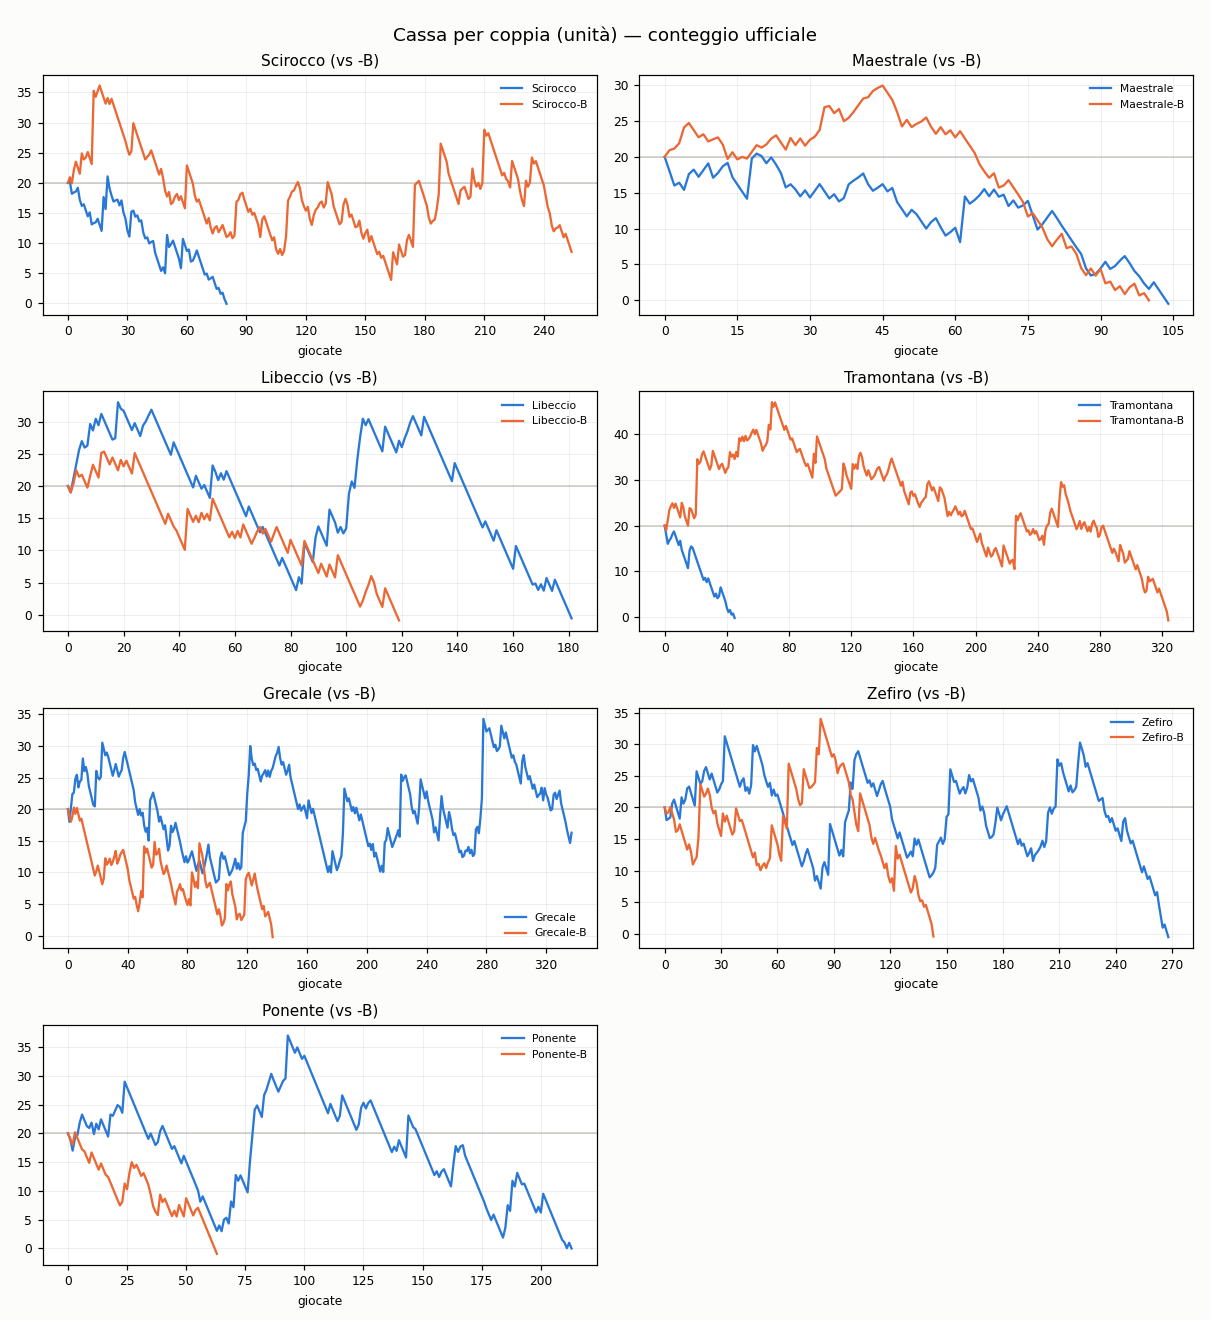
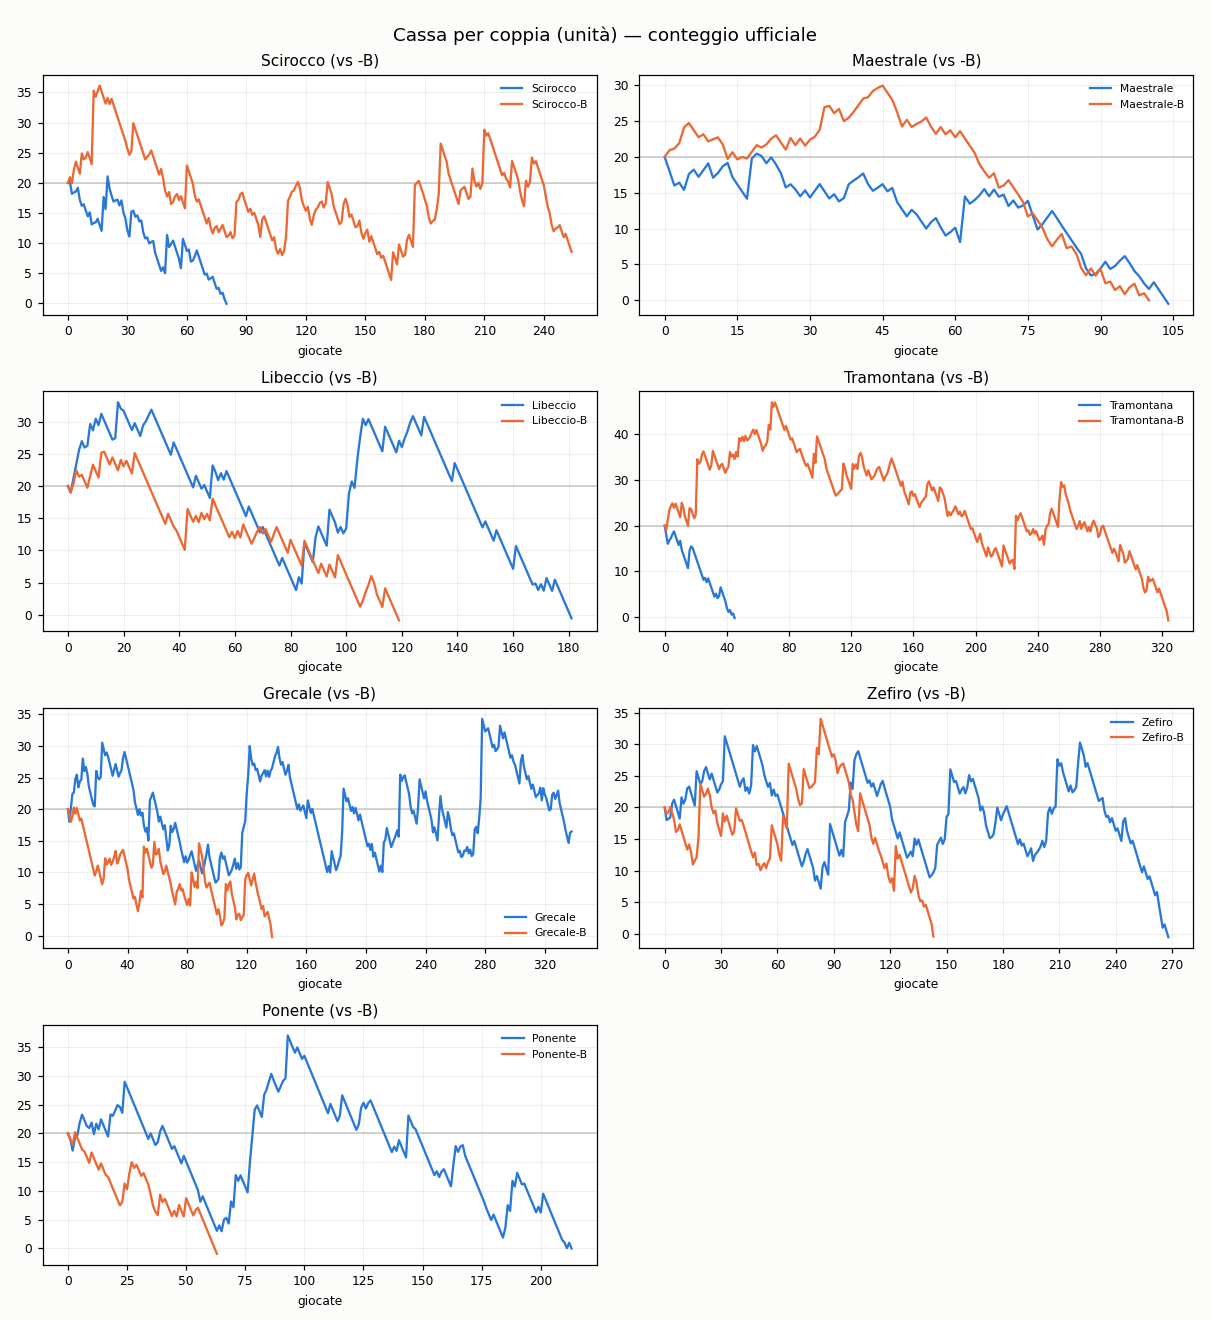
aggiornamento 2026-07-28 15:26 UTC

diff --git a/README.md b/README.md
@@ -37,9 +37,9 @@ scala in unità). Non indichiamo quale.
 
 ## Grafici
 
-![Coppie: dati completi vs ridotti](https://raw.githubusercontent.com/Kitem19/ippica-track-record/main/charts/equity_pairs.png?v=d19337b6)
+![Coppie: dati completi vs ridotti](https://raw.githubusercontent.com/Kitem19/ippica-track-record/main/charts/equity_pairs.png?v=db37e255)
 
-![Delta per coppia](https://raw.githubusercontent.com/Kitem19/ippica-track-record/main/charts/coppie_delta.png?v=7e249329)
+![Delta per coppia](https://raw.githubusercontent.com/Kitem19/ippica-track-record/main/charts/coppie_delta.png?v=d208b6b9)
 
 ### Come leggere i grafici
 
@@ -60,7 +60,7 @@ _Poche giornate: numeri ancora rumorosi, si conclude a fine fase (31/7)._
 - **Maestrale**: in sostanziale pareggio — troppo presto per dire
 - **Libeccio**: in sostanziale pareggio — troppo presto per dire
 - **Tramontana**: in sostanziale pareggio — troppo presto per dire
-- **Grecale**: dati completi avanti di 16,5u
+- **Grecale**: dati completi avanti di 16,7u
 - **Zefiro**: in sostanziale pareggio — troppo presto per dire
 - **Ponente**: in sostanziale pareggio — troppo presto per dire
 
@@ -68,22 +68,22 @@ _Poche giornate: numeri ancora rumorosi, si conclude a fine fase (31/7)._
 
 | Sistema | Cassa (u) | P/L (u) | Selezioni | Escluse | Stato |
 |---|---|---|---|---|---|
-| Grecale | 16,3 | -3,7 | 337 | 4 | 🟢 |
+| Grecale | 16,5 | -3,5 | 338 | 4 | 🟢 |
 | Scirocco-B | 8,5 | -11,5 | 254 | 6 | 🟢 |
-| Maestrale-B | 0,0 | -20,0 | 100 | 270 | 🛑 |
+| Maestrale-B | 0,0 | -20,0 | 100 | 271 | 🛑 |
 | Ponente | 0,0 | -20,0 | 213 | 50 | 🛑 |
-| Scirocco | 0,0 | -20,1 | 80 | 294 | 🛑 |
-| Grecale-B | 0,0 | -20,2 | 137 | 190 | 🛑 |
+| Scirocco | 0,0 | -20,1 | 80 | 295 | 🛑 |
+| Grecale-B | 0,0 | -20,2 | 137 | 191 | 🛑 |
 | Tramontana | 0,0 | -20,3 | 45 | 335 | 🛑 |
 | Zefiro-B | 0,0 | -20,5 | 143 | 91 | 🛑 |
 | Maestrale | 0,0 | -20,5 | 104 | 292 | 🛑 |
-| Zefiro | 0,0 | -20,6 | 268 | 24 | 🛑 |
+| Zefiro | 0,0 | -20,6 | 268 | 25 | 🛑 |
 | Libeccio | 0,0 | -20,6 | 181 | 196 | 🛑 |
 | Tramontana-B | 0,0 | -20,8 | 324 | 42 | 🛑 |
-| Libeccio-B | 0,0 | -20,9 | 119 | 209 | 🛑 |
-| Ponente-B | 0,0 | -21,0 | 63 | 110 | 🛑 |
+| Libeccio-B | 0,0 | -20,9 | 119 | 210 | 🛑 |
+| Ponente-B | 0,0 | -21,0 | 63 | 111 | 🛑 |
 
-_Aggiornato: 28/07 17:21_
+_Aggiornato: 28/07 17:26_
 ---
 *Nessuna delle informazioni qui pubblicate costituisce consiglio di gioco.
 Il gioco può causare dipendenza — 18+.*
